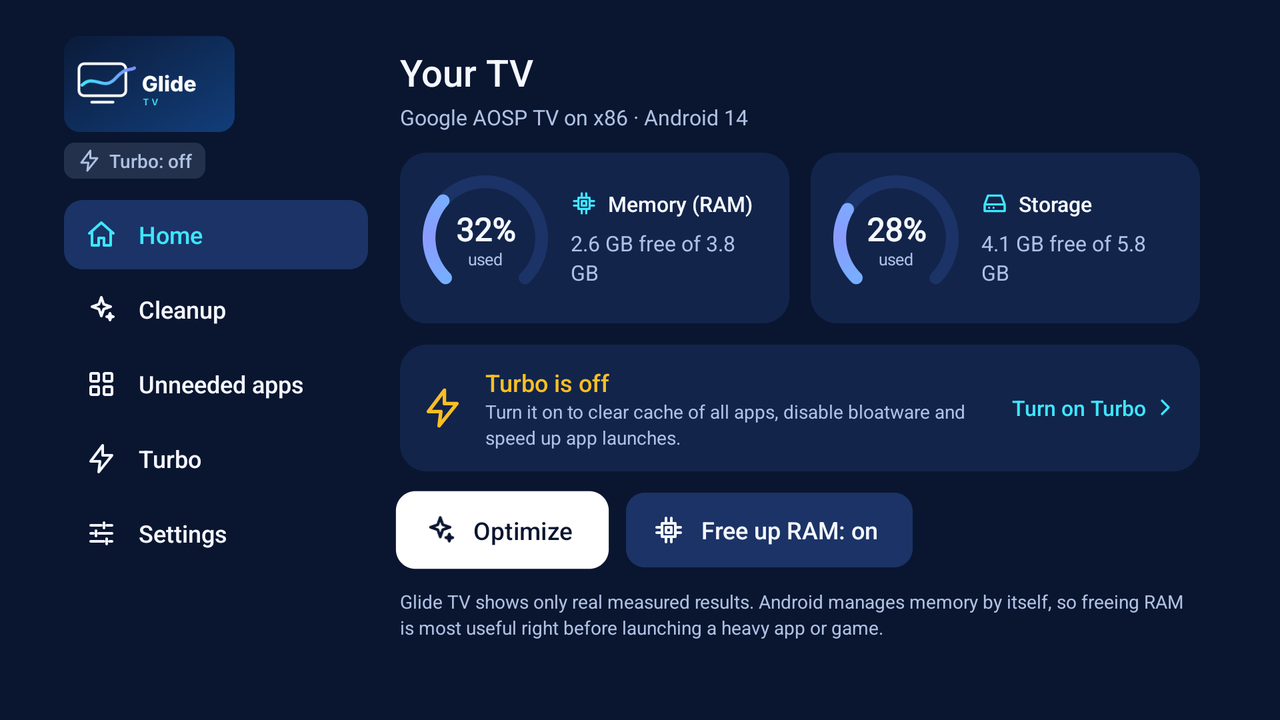
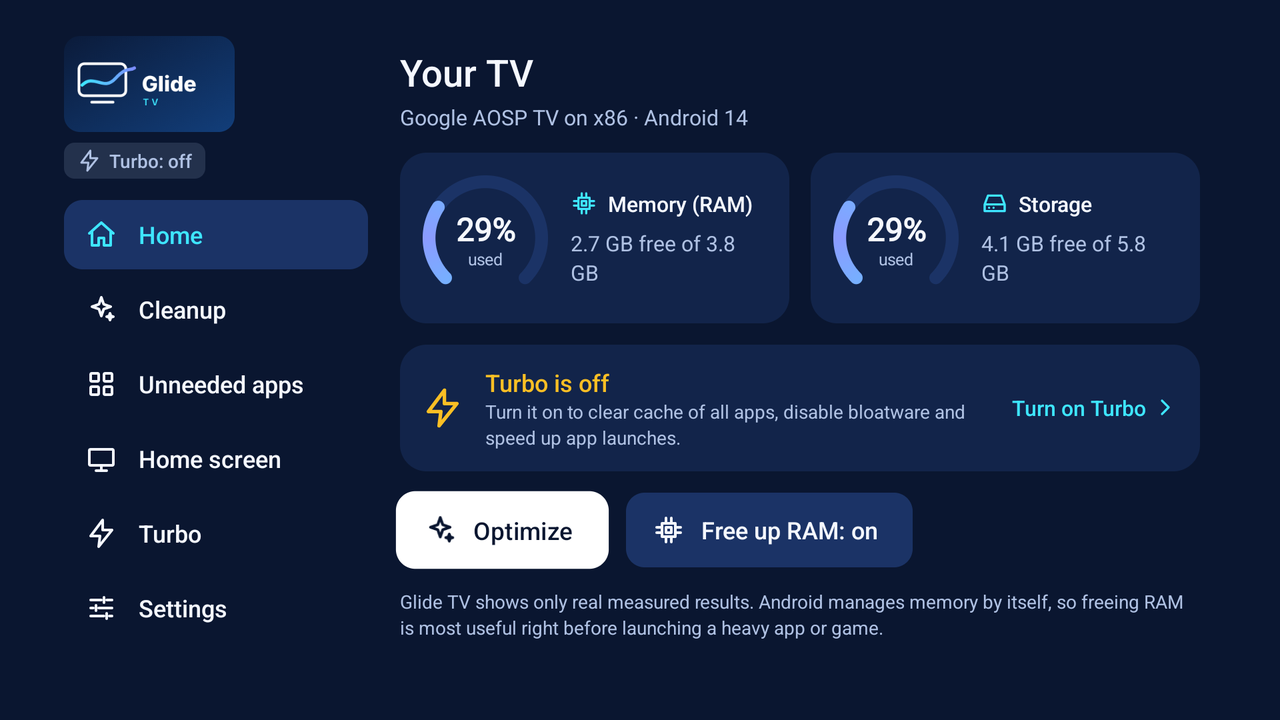
README: home screen preset screenshots; refresh screenshots for the new menu item

diff --git a/README.md b/README.md
@@ -83,6 +83,14 @@
 Glide TV умеет заменить стандартный главный экран своим: часы, ряд избранного и сетка приложений.
 Без рекламы, рекомендаций, сети и фоновых служб. Всё настраивается на экране «Экран ТВ».
 
+| Док | Чёрный OLED |
+|:---:|:---:|
+| <img src="docs/screenshots/home-dock.png" alt="Пресет «Док»: часы, полоса избранного и сетка приложений на синем фоне"> | <img src="docs/screenshots/home-oled.png" alt="Пресет «Чёрный OLED»: шесть приложений в ряду на чёрном фоне, подпись только у приложения в фокусе"> |
+| **Стекло** | **Экран «Экран ТВ» в Glide TV** |
+| <img src="docs/screenshots/home-glass.png" alt="Пресет «Стекло»: полупрозрачная полоса избранного поверх фона «Аврора»"> | <img src="docs/screenshots/home.png" alt="Экран «Экран ТВ»: текущий главный экран, кнопки смены и предпросмотра, выбор пресета"> |
+
+Скриншоты пресетов сняты в режиме предпросмотра, поэтому внизу видна подсказка «Предпросмотр. Назад — выйти».
+
 | | |
 |---|---|
 | **Пресеты** | «Док» — полоса избранного и сетка под ней. «Чёрный OLED» — чистый чёрный, шесть в ряду, без подписей. «Стекло» — полупрозрачная полоса поверх нарисованного фона. |
